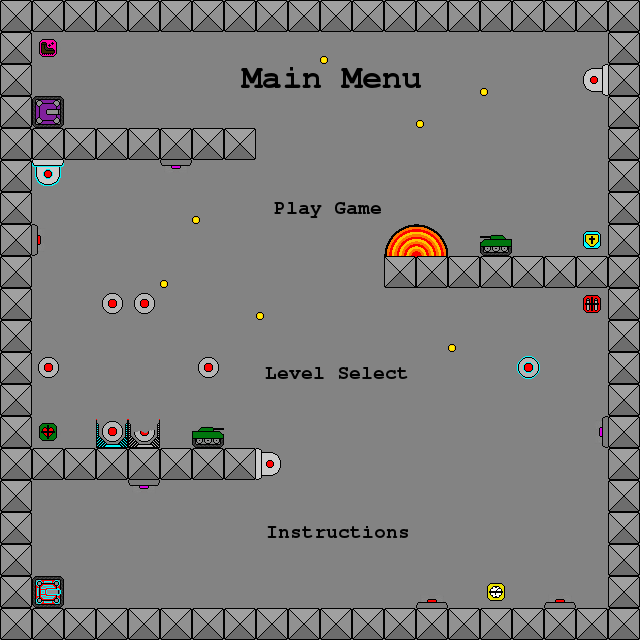
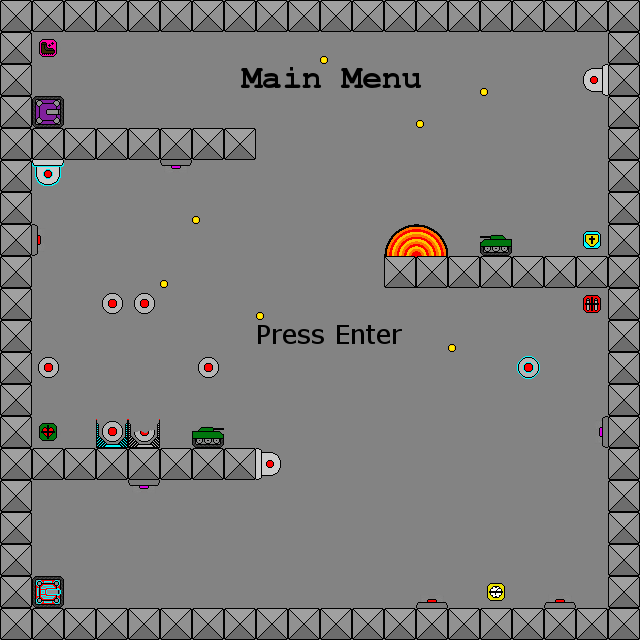
menu, gameover, and exit *kinda* work

diff --git a/js/main.js b/js/main.js
@@ -11,12 +11,6 @@ function preload() {
     game.load.image('base', 'assets/PNG/tank.png');//tank base//
     game.load.image('cannon', 'assets/PNG/cannon.png');//tank cannon//
     game.load.image('bullet', 'assets/PNG/bullet.png');//bullet sprite//
-    //game.load.tilemap('Tilemap', 'assets/Tile Layer 1.json', null, Phaser.Tilemap.TILED_JSON);
-    //game.load.tilemap('level1', 'assets/JSON/level1.json', null, Phaser.Tilemap.TILED_JSON);
-    //game.load.tilemap('level2', 'assets/JSON/level2.json', null, Phaser.Tilemap.TILED_JSON);
-    //game.load.tilemap('level3', 'assets/JSON/level3.json', null, Phaser.Tilemap.TILED_JSON);
-    //game.load.tilemap('level4', 'assets/JSON/level4.json', null, Phaser.Tilemap.TILED_JSON);
-    //game.load.tilemap('levelTest', 'assets/JSON/levelTest.json', null, Phaser.Tilemap.TILED_JSON);
     game.load.tilemap('level', 'assets/JSON/multiLevel.json', null, Phaser.Tilemap.TILED_JSON);
     game.load.image('block', 'assets/PNG/block.png');//block used for Tilemap//
     game.load.image('turretR', 'assets/PNG/wallTurret.png');//enemy turret on wall//
@@ -50,15 +44,21 @@ function preload() {
     game.load.image('mineL', 'assets/PNG/leftWallMine.png');
     game.load.image('mineR', 'assets/PNG/rightWallMine.png');
     game.load.image('mineC', 'assets/PNG/ceilingMine.png');
-    game.load.image('gmineG', 'assets/PNG/grounhdGravityMine.png');
+    game.load.image('gmineG', 'assets/PNG/groundGravityMine.png');
     game.load.image('gmineC', 'assets/PNG/ceilingGravityMine.png');
     game.load.image('gmineL', 'assets/PNG/leftGravityMine.png');
     game.load.image('gmineR', 'assets/PNG/rightGravityMine.png');
+    game.load.image('howToPlay', 'assets/PNG/howToPlay.png');
+    game.load.image('mainMenu', 'assets/PNG/mainMenu.png');
+    game.load.image('gameOver', 'assets/PNG/gameOver.png');
+    game.load.image('exit', 'assets/PNG/exit.png');
+    game.load.image('win', 'assets/PNG/win.png');
 }
 
 var player;
 var cannon;
-var facing = 'left';
+var exit;
+var win;
 var cursors;
 var bg;
 var g_dir = 'down';
@@ -75,7 +75,9 @@ var bullets;
 var bulletTimer = 0;
 var startKey;
 var isRunning = false;
-var stateText;
+var menu;
+var howToPlay;
+var gameOver;
 var healthText;
 var enemies;
 var enemyTimer = 0;//timer for enemy attacks//
@@ -95,6 +97,7 @@ var currentLevel;
 var weaponSwitch;
 var weaponText;
 var weaponCD = 200;
+var menuTimer = 1000;
 var switchWeapon = function(){weaponType += 1;
                               if(weaponType > 3)
                                  weaponType = 0;};
@@ -129,13 +132,17 @@ function create() {
     cannon.body.setSize(32, 32, 0, 0);
     cannon.anchor.setTo(.5, .5);
     
+    exit = game.add.sprite(99 * t, 14 * t, 'exit');
+    game.physics.enable(exit, Phaser.Physics.ARCADE);
+    exit.body.setSize(32, 32, 0, 0);
+    
     bullets = game.add.group();
     enemyBullets = game.add.group();
     enemies = game.add.group();
     mines = game.add.group();
     playerBombs = game.add.group();
     
-    
+    menu = game.add.sprite(0, 0, 'mainMenu');
     
     shootSFX = game.add.audio('shot');
     hitSFX = game.add.audio('hit');
@@ -143,8 +150,6 @@ function create() {
     music.loop = true;
     music.play();
     
-    stateText = game.add.text(200, 200, "Press Enter to play!", {font: '34px Arial', fill: '#000'});
-    stateText.fixedToCamera = true;
     healthText = game.add.text(32, 32, "Health: " + playerHealth, {font: '34px Arial', fill: '#000'});
     healthText.fixedToCamera = true;
     weaponText = game.add.text(220, 32, "Weapon: Normal", {font: '34px Arial', fill: '#000'});
@@ -166,6 +171,9 @@ function update() {
     
     cannon.body.x = player.body.x;
     cannon.body.y = player.body.y;
+    
+    if(!music.isPlaying)
+        music.play();
     
     healthText.text = "Health: " + playerHealth;
     
@@ -200,7 +208,6 @@ function update() {
     if(isRunning && player.alive)
     {
         game.physics.arcade.collide(enemy17, layer);
-        //game.physics.arcade.collide(enemy17, player);
         if(!enemy17.alive)
             gcannon.kill();
         if(enemy17.inCamera)
@@ -292,11 +299,10 @@ function update() {
         isRunning = false;
         player.kill();
         cannon.kill();
-        stateText.text = "Game Over! Enter to restart.";
-        stateText.visible = true;
+        gameOver = game.add.sprite(0, 0, 'gameOver');
     }
     
-    if(startKey.isDown)//start game//
+    if(startKey.isDown && howToPlay == null && menu.visible)//start game//
     {
         if(!isRunning)
         {
@@ -306,16 +312,20 @@ function update() {
             cannon.reset(32, 96);
             enemyInit();
             enemies.forEach(healthInit);
-            
-            //if(currentLevel == 0)
-            //{
-            //    level1Init();
-            //    currentLevel = 1;
-            //}
         }
-        isRunning = true;
-        stateText.visible = false;
+        menu.visible = false;
+        howToPlay = game.add.sprite(0, 0, 'howToPlay');
+        menuTimer = game.time.now + 1000;
     }
+    
+    if(startKey.isDown && howToPlay != null && game.time.now > menuTimer)
+    {
+        howToPlay.kill()
+        isRunning = true;
+    }
+    
+    if(playerHealth < 0)
+        playerHealth = 0;
     
     game.physics.arcade.overlap(bullets, layer, wallCollision, null, this);
     game.physics.arcade.overlap(enemyBullets, layer, wallCollision, null, this);
@@ -323,7 +333,7 @@ function update() {
     game.physics.arcade.overlap(bullets, enemies, enemyHit, null, this);
     game.physics.arcade.overlap(playerBombs, enemies, explosionHit, null, this);
     game.physics.arcade.overlap(player, mines, mineHandler, null, this);
-    //game.physics.arcade.overlap(player, enemy17, fixGTank, null, this);
+    game.physics.arcade.overlap(player, exit, winGame, null, this);
 }
         
 function shoot()
@@ -752,6 +762,12 @@ function fixGTank(player, gtank)
     
     else if(gtank.body.gravity.y < 0)
         gtank.body.velocity.y = 100;
+}
+        
+function winGame(player, exit)
+{
+    win = game.add.sprite(0, 0, 'win');
+    isRunning = false;
 }
         
 function render() {}
